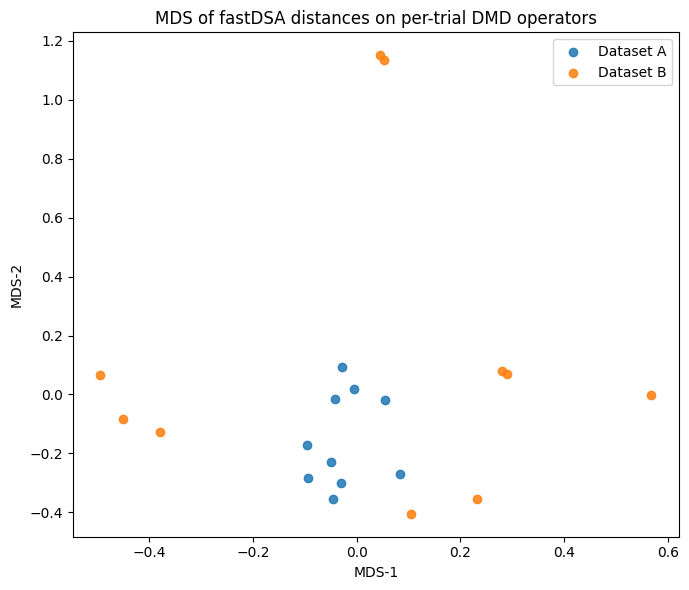
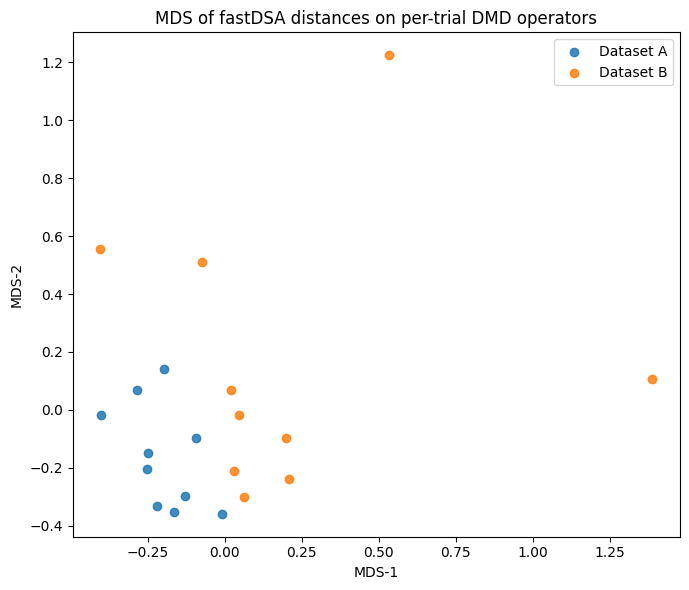
modifying for kwDSA speed

diff --git a/src/fastDSA/simdist.py b/src/fastDSA/simdist.py
@@ -3,6 +3,7 @@
 from __future__ import annotations
 
 from dataclasses import dataclass
+import hashlib
 from typing import Literal, Optional, Sequence, Tuple, Union, Any, List
 
 import numpy as np
@@ -358,6 +359,11 @@ class SimDistConfig:
 
     # Kernel-Wasserstein-specific
     kw_use_sv: bool = False  # if True, you could extend kw to use singular values
+    kw_num_centers: Union[int, float] = 0.1
+    kw_gamma: float = 1.0
+    kw_alpha: float = 1e-10
+    kw_random_state: int = 0
+    kw_eigen_solver: str = "arpack"
 
     # Misc
     device: str = "cuda"
@@ -399,6 +405,7 @@ class FastDSASimilarity:
         self.q_star_result_: Optional[dict] = None
         self.hankel_selection_table_: Optional[Sequence[dict]] = None
         self.hankel_diagnostics_table_: Optional[Sequence[dict]] = None
+        self._kw_spectrum_cache = {}
 
     # -------------------- public API -------------------- #
 
@@ -759,6 +766,11 @@ class FastDSASimilarity:
             n_delays=n_delays,
             rank=local_rank,
             delay_interval=delay_interval,
+            n_centers=self.config.kw_num_centers,
+            gamma=self.config.kw_gamma,
+            alpha=self.config.kw_alpha,
+            random_state=self.config.kw_random_state,
+            eigen_solver=self.config.kw_eigen_solver,
         )
 
         if isinstance(op, torch.Tensor):
@@ -772,6 +784,34 @@ class FastDSASimilarity:
             )
 
         return op
+
+    def _kw_spectrum_cache_key(
+        self,
+        traj: np.ndarray,
+        n_delays: int,
+        delay_interval: int,
+        global_rank: int,
+    ) -> tuple:
+        """Content-based cache key for one trial's kwDSA spectrum."""
+        traj = np.ascontiguousarray(traj)
+        digest = hashlib.blake2b(
+            traj.view(np.uint8),
+            digest_size=16,
+        ).digest()
+        return (
+            traj.shape,
+            traj.dtype.str,
+            digest,
+            int(n_delays),
+            int(delay_interval),
+            int(global_rank),
+            bool(self.config.kw_use_sv),
+            self.config.kw_num_centers,
+            float(self.config.kw_gamma),
+            float(self.config.kw_alpha),
+            int(self.config.kw_random_state),
+            str(self.config.kw_eigen_solver),
+        )
 
     def _kw_spectrum_for_trajs(
         self,
@@ -792,24 +832,37 @@ class FastDSASimilarity:
 
         vals_all = []
         for idx, traj in enumerate(trajs):
-            op = self._fit_kw_operator_for_traj(
+            cache_key = self._kw_spectrum_cache_key(
                 traj,
                 n_delays=n_delays,
                 delay_interval=delay_interval,
                 global_rank=global_rank,
             )
+            vals = self._kw_spectrum_cache.get(cache_key)
 
-            if bool(self.config.kw_use_sv):
-                vals = np.linalg.svd(op, compute_uv=False)
-            else:
-                vals = np.linalg.eigvals(op)
+            if vals is None:
+                op = self._fit_kw_operator_for_traj(
+                    traj,
+                    n_delays=n_delays,
+                    delay_interval=delay_interval,
+                    global_rank=global_rank,
+                )
 
-            vals = np.asarray(vals).reshape(-1)
-            finite = np.isfinite(vals.real) & np.isfinite(vals.imag)
-            vals = vals[finite]
+                if bool(self.config.kw_use_sv):
+                    vals = np.linalg.svd(op, compute_uv=False)
+                else:
+                    vals = np.linalg.eigvals(op)
 
-            if vals.size == 0:
-                raise ValueError(f"kwDSA produced no finite spectral values for trajectory index {idx}.")
+                vals = np.asarray(vals).reshape(-1)
+                finite = np.isfinite(vals.real) & np.isfinite(vals.imag)
+                vals = vals[finite]
+
+                if vals.size == 0:
+                    raise ValueError(
+                        "kwDSA produced no finite spectral values for "
+                        f"trajectory index {idx}."
+                    )
+                self._kw_spectrum_cache[cache_key] = vals
 
             vals_all.append(vals)
 

diff --git a/src/fastDSA/kwdsa.py b/src/fastDSA/kwdsa.py
@@ -74,8 +74,8 @@ class KernelDMD(_NystroemModel):
         rank: int = 10,
         verbose: bool = False,
         gamma: float = 1.0,
-        alpha: float = 1e-7,
-        n_centers: int | float = 600,
+        alpha: float = 1e-10,
+        n_centers: int | float = 0.1,
         random_state: int = 0,
         reduced_rank: bool = True,
         eigen_solver: str = "arpack",
@@ -317,13 +317,34 @@ def fit_kernel_dmd(x, n_delays: int, rank: int, delay_interval: int = 1, **kwarg
     # number of available contexts.
     n_contexts = _num_available_contexts(x, n_delays=n_delays, delay_interval=delay_interval)
     rank = int(max(1, min(int(rank), int(n_contexts))))
-    n_centers = int(max(rank, min(600, n_contexts)))
-    kwargs.setdefault("n_centers", n_centers)
+    arnoldi_buffer = max(10, 4 * int(np.sqrt(rank)))
+    minimum_stable_centers = min(
+        n_contexts,
+        rank + arnoldi_buffer + 1,
+    )
+
+    requested_centers = kwargs.pop("n_centers", 0.1)
+    if requested_centers < 1:
+        # kooplearn 1.1 rounds fractional center counts down. Use the same
+        # conservative count for both supported API generations.
+        effective_centers = max(1, int(float(requested_centers) * n_contexts))
+        if effective_centers < minimum_stable_centers:
+            n_centers = minimum_stable_centers
+        else:
+            n_centers = float(requested_centers)
+    else:
+        n_centers = int(min(int(requested_centers), n_contexts))
+        n_centers = max(minimum_stable_centers, n_centers)
+    kwargs["n_centers"] = n_centers
 
     # kooplearn's Arnoldi implementation needs room above the requested rank.
-    arnoldi_buffer = max(10, 4 * int(np.sqrt(rank)))
-    if n_centers <= rank + arnoldi_buffer + 1:
-        kwargs.setdefault("eigen_solver", "full")
+    effective_centers = (
+        max(1, int(n_centers * n_contexts))
+        if n_centers < 1
+        else int(n_centers)
+    )
+    if effective_centers <= rank + arnoldi_buffer + 1:
+        kwargs["eigen_solver"] = "full"
 
     dmd = KernelDMD(
         x,

diff --git a/Tests/test_kw_variable_lengths.py b/Tests/test_kw_variable_lengths.py
@@ -1,4 +1,5 @@
 import unittest
+from unittest.mock import patch
 
 import numpy as np
 
@@ -94,6 +95,37 @@ class KwVariableLengthTests(unittest.TestCase):
 
         self.assertTrue(np.isfinite(score))
         self.assertGreater(score, 0.0)
+
+    def test_reused_similarity_caches_one_spectrum_per_trial(self):
+        trials = [
+            _trajectory(80, phase=0.0).T,
+            _trajectory(85, phase=0.2).T,
+            _trajectory(90, phase=0.4).T,
+            _trajectory(95, phase=0.6).T,
+        ]
+        similarity = FastDSASimilarity(
+            SimDistConfig(
+                n_delays=3,
+                delay_interval=1,
+                rank=2,
+                method="kw",
+                device="cpu",
+                kw_num_centers=0.1,
+            )
+        )
+
+        from fastDSA import simdist
+
+        with patch.object(
+            simdist,
+            "fit_kernel_dmd",
+            wraps=simdist.fit_kernel_dmd,
+        ) as fit_mock:
+            for i in range(len(trials)):
+                for j in range(i + 1, len(trials)):
+                    similarity.fit_score([trials[i]], [trials[j]])
+
+        self.assertEqual(fit_mock.call_count, len(trials))
 
 
 if __name__ == "__main__":